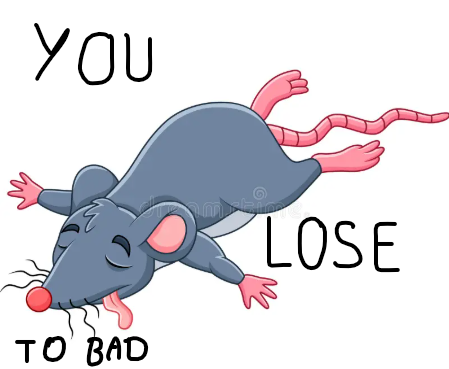
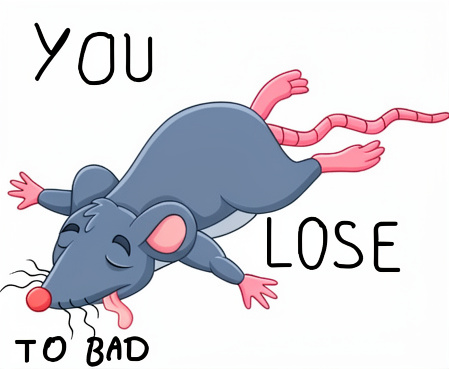
Falta sonido y yap

diff --git a/main.py b/main.py
@@ -138,6 +138,7 @@ class Queso(GameSprite):
 
 
 # OBJETOS
+inicio= transform.scale(image.load(INICIO_IMG),(ANCHO,ALTO))
 background = transform.scale(image.load(BG_IMG), (ANCHO, ALTO))
 player = Player(PLAYER_IMG, (ANCHO - 80) // 2, (ALTO - 100)//2, 70, 90, 5)
 winner= transform.scale(image.load(WIN_IMG),(ANCHO,ALTO))
@@ -178,6 +179,7 @@ def restart_game():
 run = True
 finish = False # ESTADO DE JUEGO
 clock = time.Clock()
+game_started = False
 
 while run:
     for e in event.get():
@@ -186,9 +188,27 @@ while run:
         if e.type == KEYDOWN:
             if e.key == K_r:
                 restart_game()
+        if e.type == KEYDOWN:
+            if e.key == K_SPACE:
+                game_started= True
         
 
+    
+        
+    if not game_started:
+        screen.blit(inicio, (0, 0))
+        titulo = font.Font(None, 72).render("¡PRESIONA ESPACIO!", True, WHITE)
+        instrucciones = font_1.render("para comenzar el juego", True, WHITE)
+        
+        screen.blit(titulo, (ANCHO//2 - titulo.get_width()//2, ALTO//2 - 300))
+        screen.blit(instrucciones, (ANCHO//2 - instrucciones.get_width()//2, ALTO//2 - 240))
+        
+        display.update()
+        clock.tick(FPS)
+        continue
+
     if not finish:
+        screen.fill(BLACK)
         screen.blit(background, (0, 0))
         enemy_spawn_timer += 1
         item_spawn_timer += 1
@@ -240,7 +260,7 @@ while run:
 
         player.reset()
         player.update()
-        
+                
         all_sprites.update()
         all_sprites.draw(screen)
 
@@ -250,18 +270,20 @@ while run:
         screen.blit(puntaje_vidas,(ANCHO-140,20))
         screen.blit(puntaje_text,(20,20))
 
+        para_downs= font_1.render(f'PRESIONE R PARA REINICIAR', 1 , WHITE)
 
 
-
-        if points==20:
+        if points==1:
             finish = True
             screen.fill(BLACK)
             screen.blit(winner,(0,0))
+            screen.blit(para_downs,((ANCHO/2)-155,ALTO-100))
 
         if lives==0:
             finish = True
             screen.fill(BLACK)
             screen.blit(lose,(0,0))
+            screen.blit(para_downs,(ANCHO/2,20))
 
 
 

diff --git a/config.py b/config.py
@@ -1,15 +1,14 @@
 # CONSTANTES
 
-ANCHO, ALTO = 1040, 840
+ANCHO, ALTO = 1040, 680
 FPS = 60
-TITULO = 'Project Get that cheese'
+TITULO = 'Project Get That Cheese'
 BACK_COLOR = (18, 180, 95)
 BLACK = (0, 0, 0)
 WHITE = (255, 255, 255)
 
 points= 0
 lives= 3
-
 
 #spawneo
 
@@ -27,3 +26,4 @@ BG_IMG = 'src/Woodfloocheeseproye.png'
 TEXT_FONT = 'src/Honk-Regular-VariableFont_MORF,SHLN.ttf'
 CHEESE_IMG= 'src/Cheeseratgame-removebg-preview.png'
 ITEM_IMG= 'src/pillitem-removebg-previewlk.png'
+INICIO_IMG='src/Imagen de inicio.png'